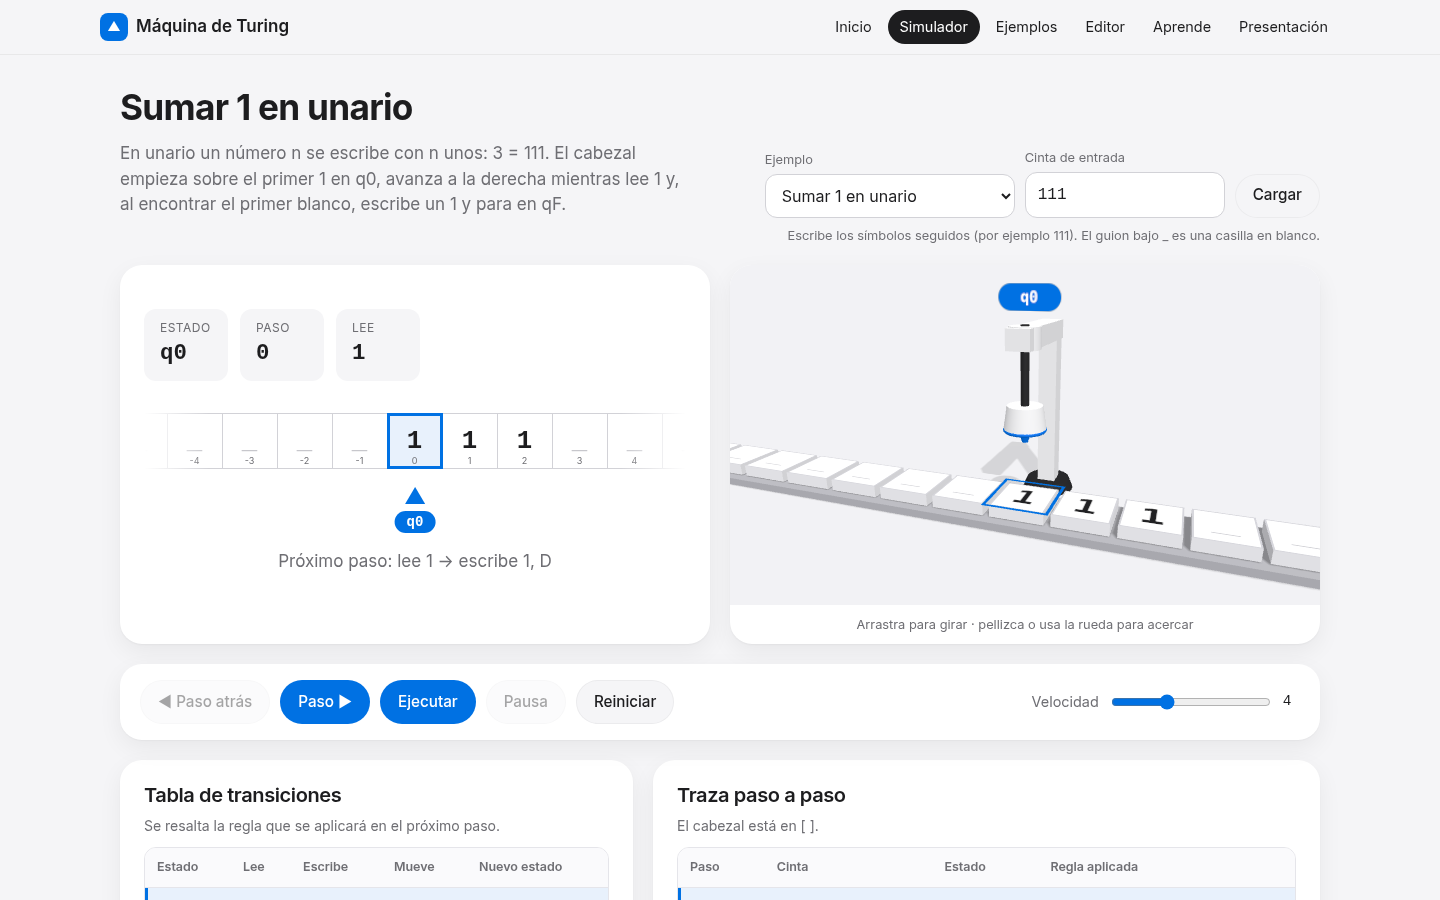
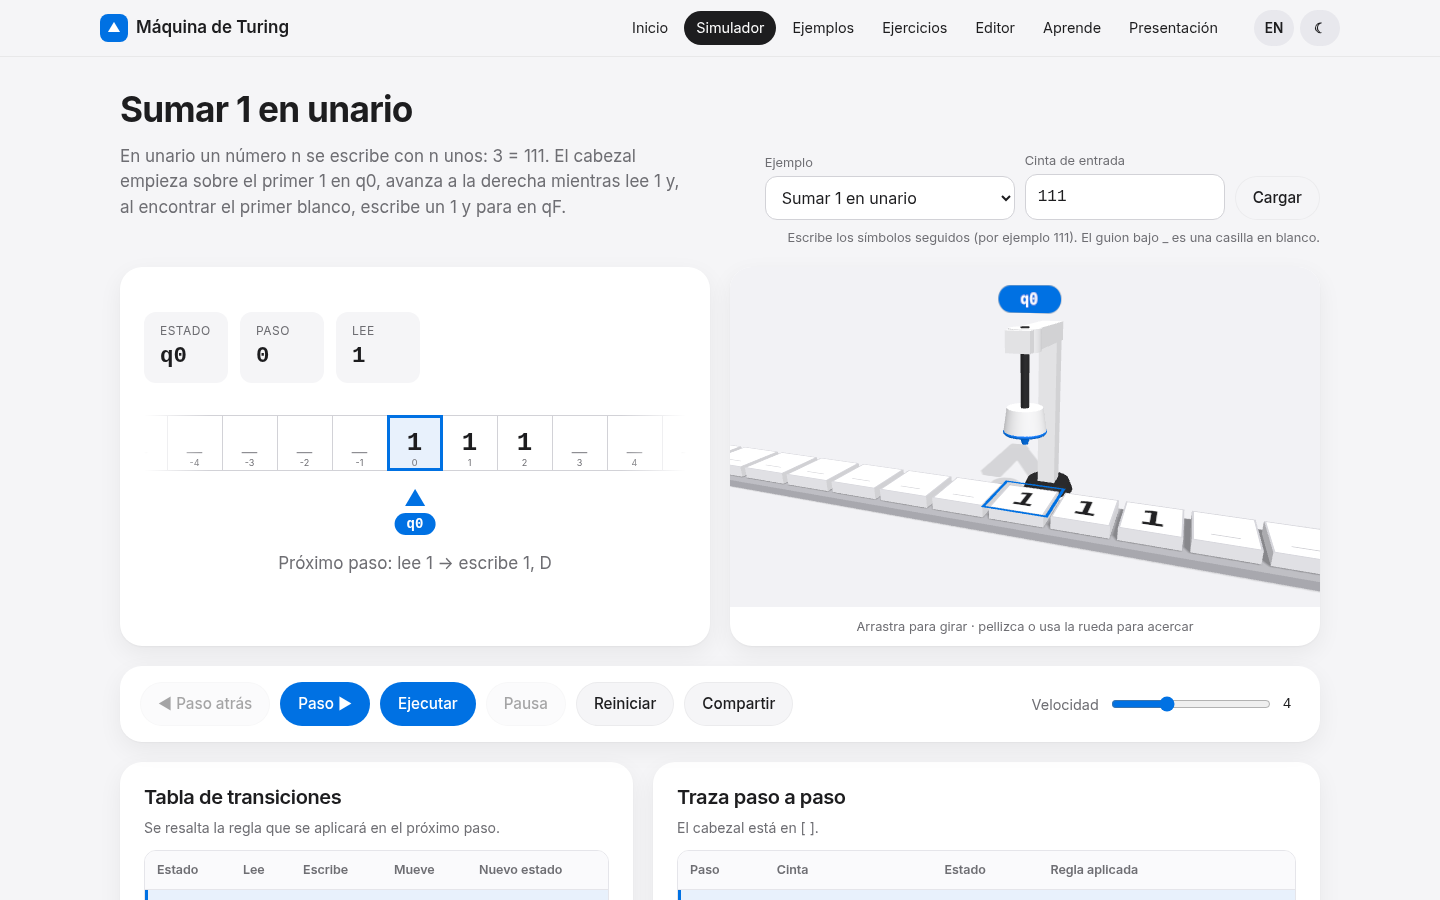
v1.1.0: README en inglés, capturas, CHANGELOG y versión

diff --git a/README.md b/README.md
@@ -1,5 +1,7 @@
 # Máquina de Turing · simulador 2D y 3D
 
+**Español** · [English](README.en.md)
+
 [![CI](https://github.com/NickPro5677/maquina-de-turing/actions/workflows/ci.yml/badge.svg)](https://github.com/NickPro5677/maquina-de-turing/actions/workflows/ci.yml) [![GitHub Pages](https://github.com/NickPro5677/maquina-de-turing/actions/workflows/pages.yml/badge.svg)](https://github.com/NickPro5677/maquina-de-turing/actions/workflows/pages.yml) [![Licencia MIT](https://img.shields.io/badge/licencia-MIT-blue.svg)](LICENSE)
 
 Simulador interactivo y explicado de la **máquina de Turing**, en español. Muestra la máquina en **2D** (cinta, cabezal, estado y tabla de reglas) y en **3D** (una máquina física que baja el brazo, lee, escribe y mueve la cinta). Funciona en el teléfono, en la computadora y en un proyector, **sin internet**.
@@ -12,12 +14,22 @@ Simulador interactivo y explicado de la **máquina de Turing**, en español. Mue
 |---|---|---|
 | ![Simulador en el teléfono, vista 2D](docs/img/simulador-movil-2d.png) | ![Simulador en el teléfono, vista 3D](docs/img/simulador-movil-3d.png) | ![Modo presentación](docs/img/presentacion-proyector.png) |
 
+| Modo oscuro | Ejercicio superado | En inglés |
+|---|---|---|
+| ![Simulador en modo oscuro, vista 3D](docs/img/simulador-movil-oscuro-3d.png) | ![Ejercicio con todos los casos superados](docs/img/ejercicio-movil.png) | ![Simulador en inglés y modo oscuro](docs/img/simulador-movil-ingles.png) |
+
+![Simulador en escritorio, modo oscuro](docs/img/simulador-oscuro.png)
+
 ## Qué incluye
 
 - **Simulador**: paso, paso atrás, ejecutar, pausa, reiniciar y velocidad. Tabla de transiciones con la regla activa resaltada y una **traza paso a paso**.
 - **Vista 3D** (Three.js, incluido en el repo): gírala con el dedo o el ratón. Respeta la opción «reducir movimiento» del sistema.
-- **8 ejemplos**: sumar 1 en unario, invertir bits, sumar dos números unarios, incrementador binario, palíndromo, castor atareado de 2 y de 3 estados, y un bucle sin fin.
-- **Editor**: crea tus reglas en una tabla, con validación en vivo. Se guarda en el dispositivo; importa y exporta JSON; comparte tu máquina con un enlace.
+- **11 ejemplos**: sumar 1 en unario, invertir bits, sumar dos números unarios, incrementador binario, palíndromo, copiar una cadena, paridad, doblar un binario, castor atareado de 2 y de 3 estados, y un bucle sin fin.
+- **Ejercicios**: 5 retos con objetivo, casos de prueba que se comprueban solos (con límite de pasos), pistas que se abren en orden y la solución al final.
+- **Editor**: crea tus reglas en una tabla, con validación en vivo. Guarda varias máquinas con nombre en el dispositivo (abrir y borrar), exporta un `.json` e impórtalo con validación.
+- **Compartir**: el botón **Compartir** crea un enlace con la máquina dentro; quien lo abra la ve en el simulador. En el teléfono abre el menú de compartir del sistema.
+- **Modo oscuro**: sigue al sistema y se puede cambiar con el botón ☾/☀. Se adaptan las vistas 2D y 3D.
+- **Español e inglés**: botón **EN/ES** arriba; toda la interfaz y los textos de teoría están traducidos.
 - **Aprende**: qué es, Turing en 1936, la máquina universal, la tesis de Church–Turing, el problema de la parada, su importancia hoy, una línea de tiempo y referencias.
 - **Modo presentación**: letra grande, pantalla completa y control con flechas o con un presentador (Av Pág / Re Pág).
 
@@ -71,7 +83,7 @@ Ve a **Presentación**. Más detalles en [docs/presentacion.md](docs/presentacio
 2. Escribe el estado inicial, los estados finales y la cinta de entrada.
 3. Añade reglas: *estado, lee, escribe, mueve (I, D o N), nuevo estado*. El símbolo `_` es la casilla en blanco.
 4. Los errores salen en rojo (reglas repetidas, estados sin reglas, movimientos no válidos…) y los avisos en amarillo (por ejemplo, combinaciones sin regla).
-5. Pulsa **Probar en el simulador**. Puedes **Exportar JSON**, **Importar JSON** o **Compartir enlace**.
+5. Pulsa **Probar en el simulador**. Puedes **Guardar** la máquina con su nombre, **Exportar JSON**, **Importar JSON** (se valida antes de cargar) o **Compartir enlace**.
 
 También puedes pegar reglas como texto, una por línea:
 
@@ -110,15 +122,16 @@ Para cuando llega a un estado final, de aceptación o de rechazo, o cuando no ha
 ```text
 maquina-de-turing/
 ├── index.html                 # la web (todas las pantallas)
-├── css/estilos.css            # estilo claro y minimalista
+├── css/estilos.css            # estilo minimalista, tema claro y oscuro
 ├── src/
-│   ├── app.js                 # rutas, simulador, editor, aprende, presentación
-│   ├── motor/                 # motor puro: maquina.js, ejemplos.js, index.js
-│   └── ui/                    # vista2d.js, vista3d.js, aprende.js
+│   ├── app.js                 # rutas, simulador, editor, ejercicios, aprende, presentación, tema e idioma
+│   ├── motor/                 # motor puro: maquina, ejemplos, ejercicios, enlace, biblioteca, textos
+│   ├── i18n/                  # textos de la interfaz: es.js, en.js
+│   └── ui/                    # vista2d.js, vista3d.js, aprende.js, aprende.en.js
 ├── vendor/three/              # Three.js r170 + OrbitControls (licencia MIT)
 ├── sw.js, manifest.webmanifest, icons/   # uso sin internet e instalación
 ├── scripts/construir-archivo-unico.mjs   # genera dist/maquina-turing.html
-├── tests/motor.test.js        # pruebas con node --test
+├── tests/                     # pruebas con node --test
 ├── docs/                      # motor.md, presentacion.md, img/
 └── .github/workflows/         # ci.yml y pages.yml
 ```
@@ -127,11 +140,11 @@ maquina-de-turing/
 
 ```bash
 npm install     # solo hace falta para construir el archivo único (esbuild)
-npm test        # 58 pruebas del motor con node --test, sin dependencias
+npm test        # 77 pruebas con node --test, sin dependencias
 npm run build   # crea dist/maquina-turing.html
 ```
 
-Las pruebas comprueban la traza exacta 111 → 1111, el resultado y los pasos de cada ejemplo, la aceptación y el rechazo de palíndromos, los castores atareados (2 estados: 4 unos en 6 pasos; 3 estados: 6 unos en 14 pasos, y la máquina de 21 pasos), el límite de pasos, el paso atrás, el validador y el JSON.
+Las pruebas comprueban la traza exacta 111 → 1111, el resultado y los pasos de cada ejemplo, la aceptación y el rechazo de palíndromos, los castores atareados (2 estados: 4 unos en 6 pasos; 3 estados: 6 unos en 14 pasos, y la máquina de 21 pasos), el límite de pasos, el paso atrás, el validador y el JSON. Desde la v1.1.0 también: enlaces de ida y vuelta y enlaces dañados, la validación al importar, el corrector de ejercicios, las máquinas guardadas y que el español y el inglés tengan las mismas claves.
 
 ## Licencia
 

diff --git a/README.en.md b/README.en.md
@@ -1,0 +1,56 @@
+# Turing Machine · 2D and 3D simulator
+
+[Español](README.md) · **English**
+
+[![CI](https://github.com/NickPro5677/maquina-de-turing/actions/workflows/ci.yml/badge.svg)](https://github.com/NickPro5677/maquina-de-turing/actions/workflows/ci.yml) [![GitHub Pages](https://github.com/NickPro5677/maquina-de-turing/actions/workflows/pages.yml/badge.svg)](https://github.com/NickPro5677/maquina-de-turing/actions/workflows/pages.yml) [![MIT License](https://img.shields.io/badge/license-MIT-blue.svg)](LICENSE)
+
+An interactive Turing machine simulator that runs in the browser, on phones and on a projector. It needs no install and works offline after the first visit.
+
+**[Open the live demo](https://nickpro5677.github.io/maquina-de-turing/)**. The interface starts in Spanish; tap **EN** in the top bar to switch to English. Your choice is remembered.
+
+![Simulator in English: 2D and 3D views](docs/img/simulator-english.png)
+
+| Dark mode | Exercise passed | English on a phone |
+|---|---|---|
+| ![Dark mode, 3D view](docs/img/simulador-movil-oscuro-3d.png) | ![Exercise with every test passing](docs/img/ejercicio-movil.png) | ![Simulator in English, dark mode](docs/img/simulador-movil-ingles.png) |
+
+## Features
+
+- **Simulator**: step, step back, run, pause, reset and speed. A transition table that highlights the active rule, and a step-by-step trace.
+- **3D view** (Three.js, vendored in the repo): rotate it with a finger or the mouse. It respects the system's reduced-motion setting.
+- **11 examples**: add 1 in unary, invert bits, add two unary numbers, binary increment, palindrome, copy a string, parity, double a binary number, 2- and 3-state busy beavers, and an endless loop.
+- **Exercises**: 5 challenges. Each has a goal, test cases checked automatically with a step limit, hints that open in order, and the solution last.
+- **Editor**: build rules in a table with live validation. Save named machines on the device and open or delete them later. Export to `.json`; imports are validated before loading.
+- **Share**: the **Share** button makes a link with the machine inside it, so anyone who opens the link sees it in the simulator. On phones it opens the system share sheet.
+- **Dark mode**: follows the system and can be toggled with ☾/☀. The 2D and 3D views both adapt.
+- **Spanish and English**: the whole interface, the theory texts and the engine messages are translated. In English, moves are written **L / R / S**. The parser accepts both I/D/N and L/R/S.
+- **Learn**: what the machine is, Turing in 1936, the universal machine, the Church–Turing thesis, the halting problem, why it matters today, a timeline and references.
+- **Presentation mode**: large type, full screen, and arrow-key or clicker control (Page Down / Page Up).
+
+## Usage
+
+- **Phone:** open the demo and tap **Try the machine**. To install it, choose *Add to Home Screen* in the browser menu.
+- **Single offline file:** download [`maquina-turing.html`](https://nickpro5677.github.io/maquina-de-turing/maquina-turing.html), which is also attached to each release. Everything is inside the file, so it opens from `file://` with no server and no internet.
+- **Desktop:** serve the repo with any static server (`python3 -m http.server 8000`).
+- **Shortcuts:** → step, ← step back, space run/pause, R reset.
+
+Rules can also be pasted as text, one per line:
+
+```text
+q0, 1 -> 1, R, q0
+q0, _ -> 1, S, qF
+```
+
+## Development
+
+```bash
+npm install     # only needed for the single-file build (esbuild)
+npm test        # 77 tests with node --test
+npm run build   # writes dist/maquina-turing.html
+```
+
+The engine in `src/motor/` is plain JavaScript with no DOM. UI strings live in `src/i18n/es.js` and `src/i18n/en.js`, and a test checks that both files have the same keys.
+
+## License
+
+[MIT](LICENSE). Three.js ships with its own MIT license in [`vendor/three/LICENSE`](vendor/three/LICENSE).

diff --git a/CHANGELOG.md b/CHANGELOG.md
@@ -1,5 +1,22 @@
 # Cambios
 
+## v1.1.0 · 2026-10-30
+
+- Compartir: la máquina va dentro del enlace (`#/simulador?m=…`) y se abre al entrar. Botón **Compartir** en el simulador y el editor; en el teléfono usa el menú de compartir. Un enlace dañado muestra un aviso y abre el ejemplo principal.
+- Máquinas guardadas: guarda varias con nombre en el dispositivo, ábrelas o bórralas. Exportar a `.json` e importar con validación del esquema.
+- 3 ejemplos nuevos: copiar una cadena, paridad y doblar un binario (11 en total).
+- Sección **Ejercicios**: 5 retos con objetivo, casos que se comprueban solos con límite de pasos, pistas en orden y solución.
+- Modo oscuro: sigue al sistema, con botón para cambiarlo. 2D y 3D adaptados; sin errores graves de accesibilidad en los dos temas.
+- Inglés: interfaz, teoría, ejemplos y mensajes del motor en español e inglés (en inglés los movimientos son L/R/S). README en inglés.
+- Pruebas nuevas: enlaces, importación, ejercicios, máquinas guardadas y paridad de traducciones.
+
+## v1.1.0 · 2026-10-30 (English)
+
+- Share links carry the machine; Share button (system share sheet on phones); broken links show a notice.
+- Saved machines library, JSON export and validated import.
+- 3 new examples (copy, parity, binary double) and an Exercises section with auto-checked tests, hints and solutions.
+- Dark mode (system + toggle) for 2D and 3D; English UI and theory texts.
+
 ## v1.0.1 · 2026-10-30
 
 - Móvil: el menú superior se muestra en dos filas y ya no se desplaza de lado.
